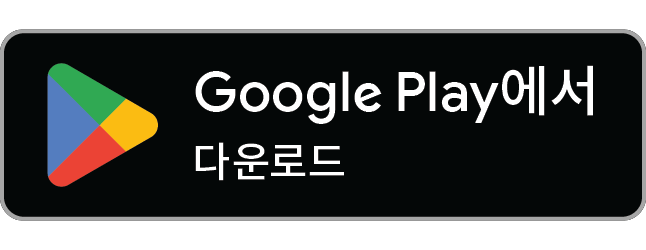
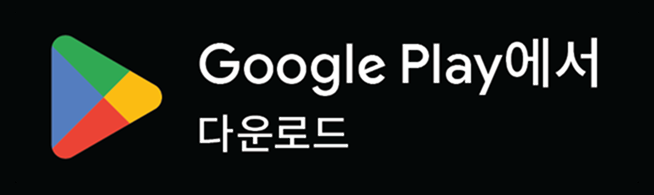
feat: Google Play 다운로드 버튼 컴포넌트 통일

diff --git a/assets/styles.css b/assets/styles.css
@@ -2198,28 +2198,96 @@ h2 {
   max-width: 100%;
   height: auto;
 }
-.hero-store-badge img {
-  width: 200px;
+.google-play-button,
+.hero-cta-group .btn-ghost {
+  width: 220px;
+  height: 66px;
+  border-radius: 14px;
+  transition:
+    background 0.2s,
+    border-color 0.2s,
+    box-shadow 0.2s,
+    opacity 0.24s,
+    transform 0.2s;
+}
+.google-play-button {
+  display: inline-flex;
+  align-items: center;
+  justify-content: center;
+  overflow: hidden;
+  border: 1.5px solid rgba(255, 255, 255, 0.5);
+}
+.google-play-button:not(.floating-store-badge) {
+  position: relative;
+}
+.google-play-button::after {
+  content: "";
+  position: absolute;
+  inset: 0;
+  border-radius: inherit;
+  background: rgba(255, 255, 255, 0.1);
+  opacity: 0;
+  pointer-events: none;
+  transition: opacity 0.2s;
+}
+.google-play-button:focus-visible {
+  border-radius: 14px;
+}
+.google-play-button img {
+  display: block;
+  width: 220px;
+  max-width: none;
+  height: auto;
+  flex: 0 0 auto;
+  border-radius: inherit;
+}
+.hero-cta-group .btn-ghost {
+  padding: 0 20px;
+}
+.google-play-button:hover,
+.hero-cta-group .btn-ghost:hover {
+  border-color: #fff;
+  box-shadow: 0 10px 24px rgba(2, 6, 23, 0.28);
+  transform: translateY(-2px);
+}
+.google-play-button:hover::after {
+  opacity: 1;
+}
+.nav-store-badge {
+  align-items: center;
+  justify-content: center;
+  overflow: hidden;
+  width: 136px;
+  height: 41px;
+  flex: 0 0 auto;
+  border-radius: 8px;
+}
+.nav-store-badge:focus-visible {
+  border-radius: 8px;
+}
+.nav-store-badge img {
+  width: 136px;
+  max-width: none;
+  flex: 0 0 auto;
 }
 .floating-store-badge {
+  position: fixed;
+  width: 168px;
+  height: 50px;
   min-height: 0;
   padding: 0;
-  border: none;
   background: none;
   box-shadow: none;
-  border-radius: 12px;
 }
 .floating-store-badge:hover {
   background: none;
-  border-color: transparent;
-  box-shadow: none;
+  transform: translate(-50%, -2px);
 }
 .floating-store-badge img {
   display: block;
   width: 168px;
   height: auto;
   margin: 0 auto;
-  filter: drop-shadow(0 12px 26px rgba(2, 6, 23, 0.4));
 }
 .privacy-note {
   max-width: 560px;
@@ -3355,20 +3423,7 @@ footer .logo {
     font-size: 14px;
   }
   .floating-beta-cta {
-    right: 18px;
-    left: 18px;
     bottom: calc(14px + env(safe-area-inset-bottom));
-    width: auto;
-    min-height: 52px;
-    padding: 0 20px;
-    font-size: 15px;
-    transform: translateY(18px);
-  }
-  .floating-beta-cta.is-visible {
-    transform: none;
-  }
-  .floating-beta-cta:hover {
-    transform: translateY(-2px);
   }
   footer {
     padding: 28px 18px;

diff --git a/index.html b/index.html
@@ -160,7 +160,7 @@
       </p>
       <div class="hero-cta-group">
         <a
-          class="store-badge hero-store-badge"
+          class="store-badge google-play-button"
           href="https://play.google.com/store/apps/details?id=com.landy.app"
           target="_blank"
           rel="noopener noreferrer"
@@ -170,8 +170,8 @@
           <img
             src="/assets/google-play-badge.png"
             alt="Google Play에서 다운로드"
-            width="200"
-            height="77"
+            width="220"
+            height="66"
           />
         </a>
         <a class="btn-ghost" href="#how">어떻게 작동하나요?</a>
@@ -632,7 +632,7 @@
 
       <div class="store-cta">
         <a
-          class="store-badge"
+          class="store-badge google-play-button"
           href="https://play.google.com/store/apps/details?id=com.landy.app"
           target="_blank"
           rel="noopener noreferrer"
@@ -643,7 +643,7 @@
             src="/assets/google-play-badge.png"
             alt="Google Play에서 다운로드"
             width="220"
-            height="85"
+            height="66"
           />
         </a>
       </div>
@@ -692,7 +692,7 @@
     </footer>
 
     <a
-      class="floating-beta-cta floating-store-badge"
+      class="floating-beta-cta floating-store-badge google-play-button"
       href="https://play.google.com/store/apps/details?id=com.landy.app"
       target="_blank"
       rel="noopener noreferrer"
@@ -703,7 +703,7 @@
         src="/assets/google-play-badge.png"
         alt="Google Play에서 다운로드"
         width="168"
-        height="65"
+        height="50"
       />
     </a>
 

diff --git a/legal/data-deletion.html b/legal/data-deletion.html
@@ -52,7 +52,15 @@
         </span>
         <span class="logo-word">랜디</span>
       </a>
-      <a class="nav-cta" href="/#beta">베타 신청하기</a>
+      <a
+        class="store-badge nav-store-badge"
+        href="https://play.google.com/store/apps/details?id=com.landy.app"
+        target="_blank"
+        rel="noopener noreferrer"
+        aria-label="Google Play에서 랜디 다운로드"
+      >
+        <img src="/assets/google-play-badge.png" alt="Google Play에서 다운로드" width="136" height="41" />
+      </a>
     </nav>
 
     <main>

diff --git a/legal/privacy-policy.html b/legal/privacy-policy.html
@@ -52,7 +52,15 @@
         </span>
         <span class="logo-word">랜디</span>
       </a>
-      <a class="nav-cta" href="/#beta">베타 신청하기</a>
+      <a
+        class="store-badge nav-store-badge"
+        href="https://play.google.com/store/apps/details?id=com.landy.app"
+        target="_blank"
+        rel="noopener noreferrer"
+        aria-label="Google Play에서 랜디 다운로드"
+      >
+        <img src="/assets/google-play-badge.png" alt="Google Play에서 다운로드" width="136" height="41" />
+      </a>
     </nav>
 
     <main>
